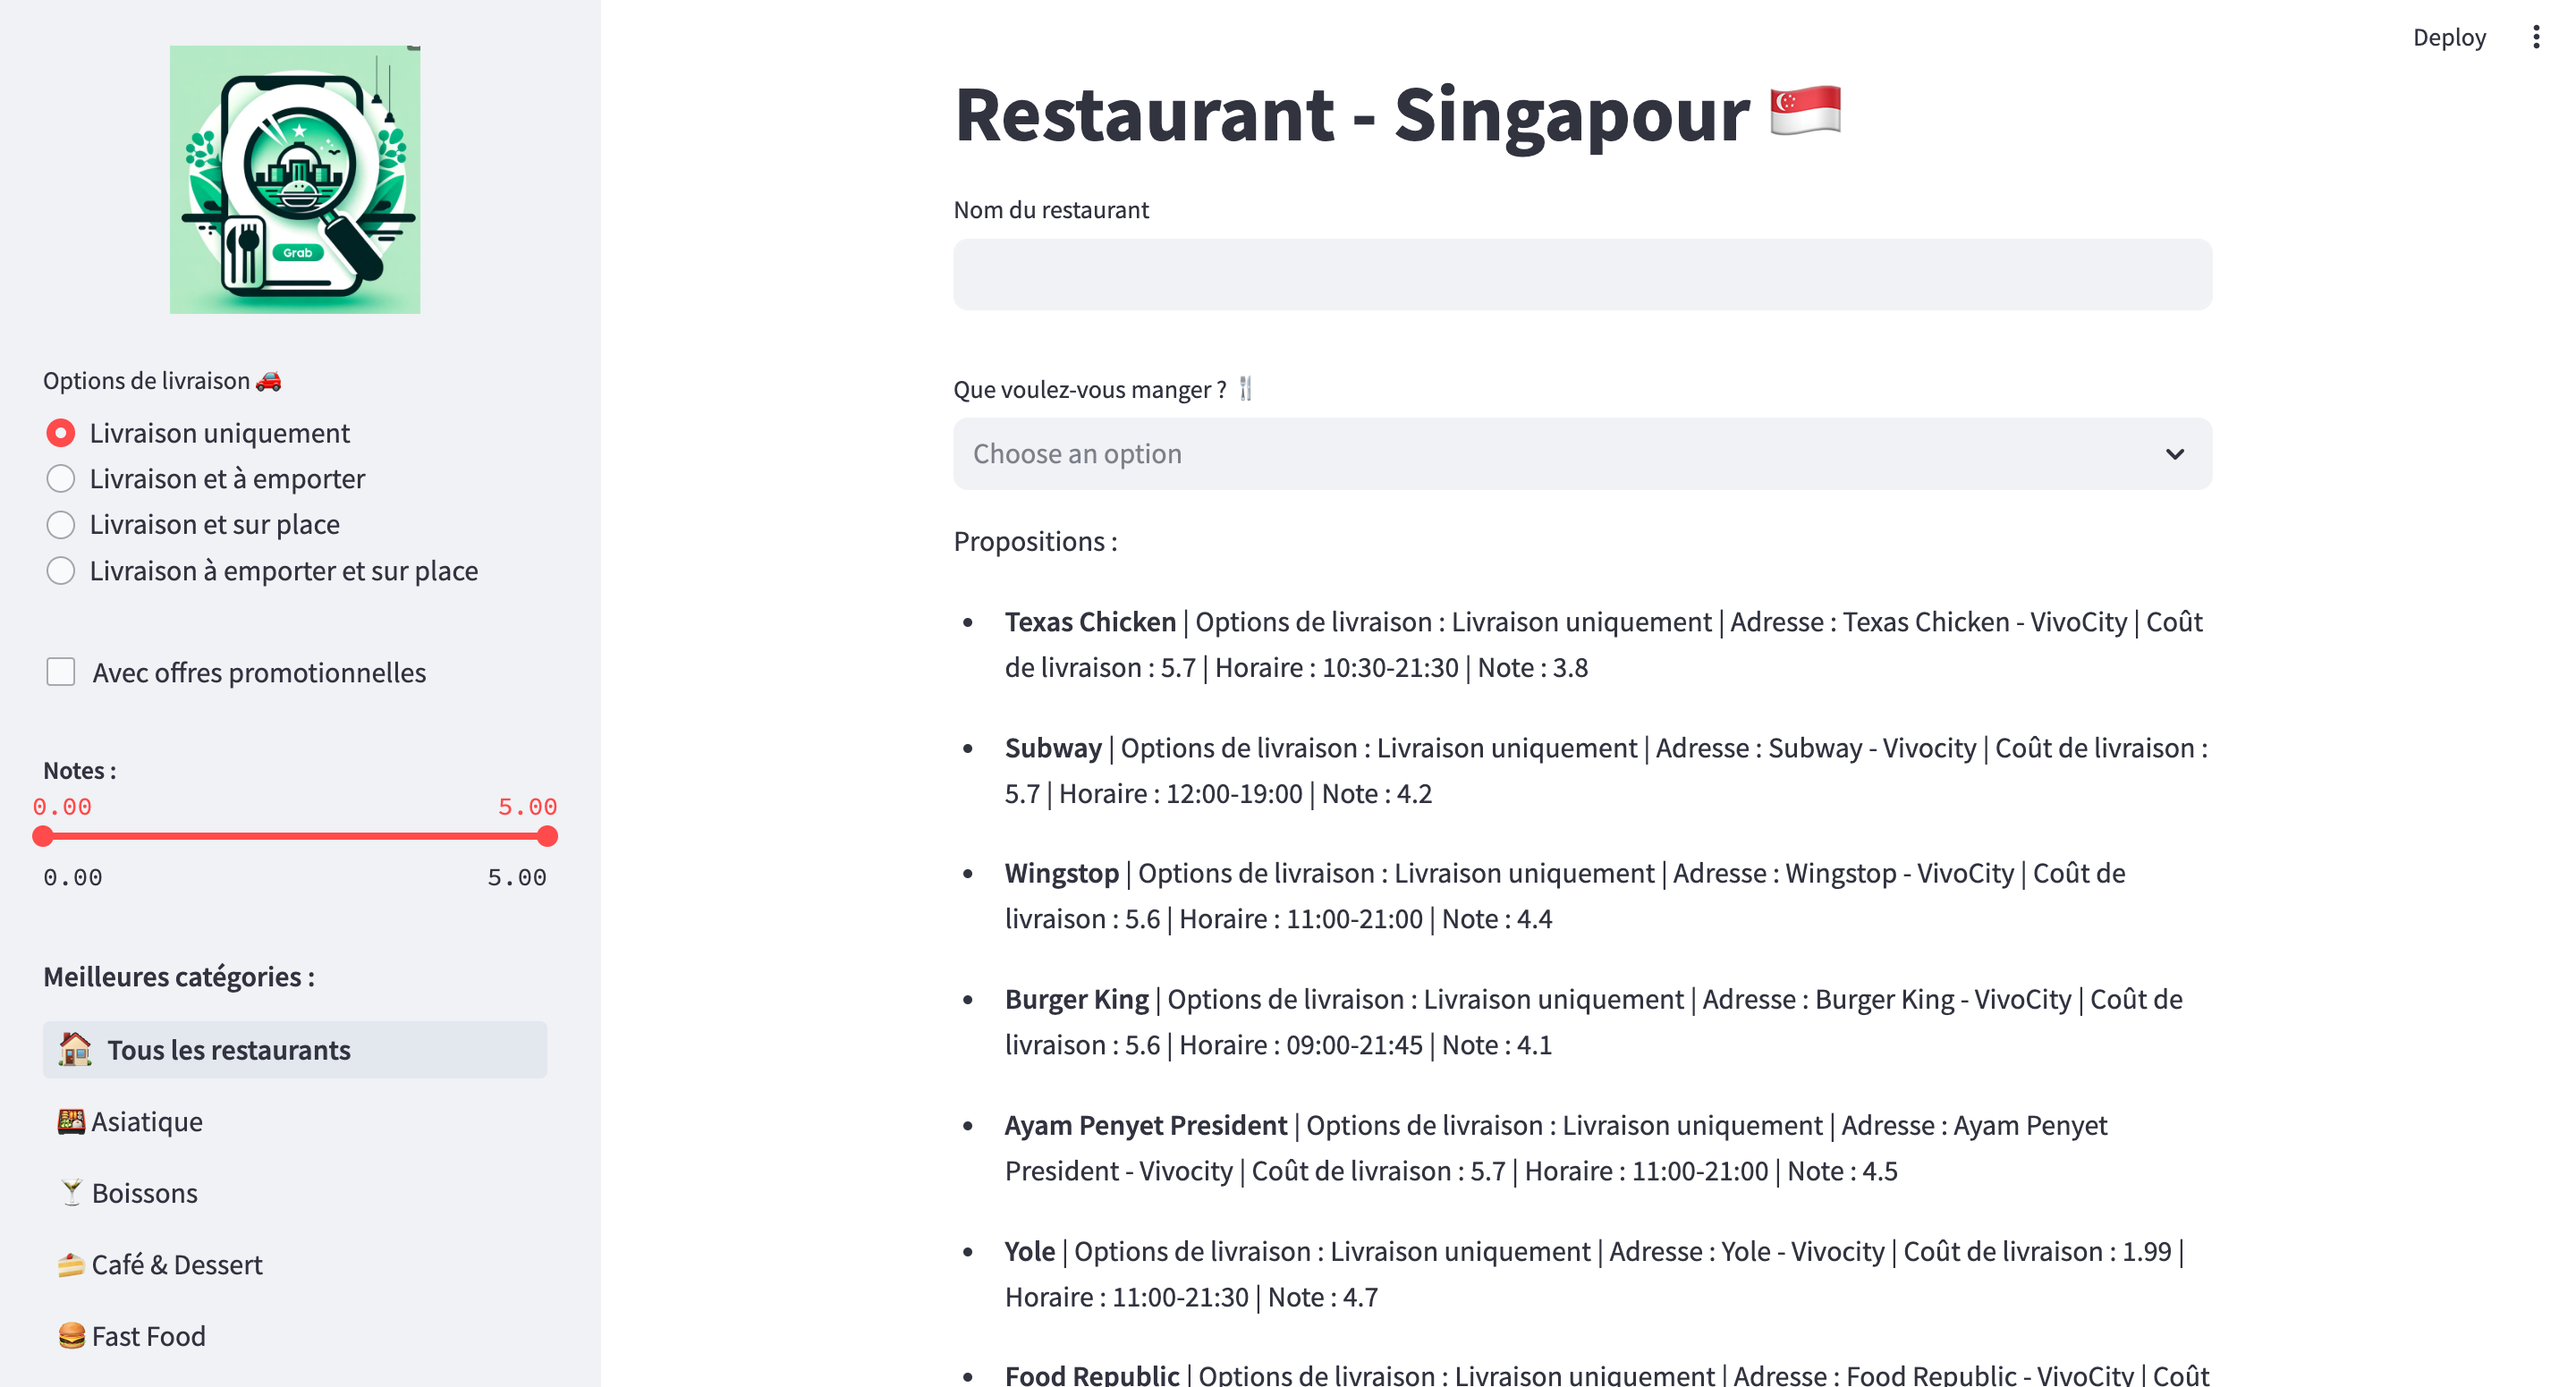
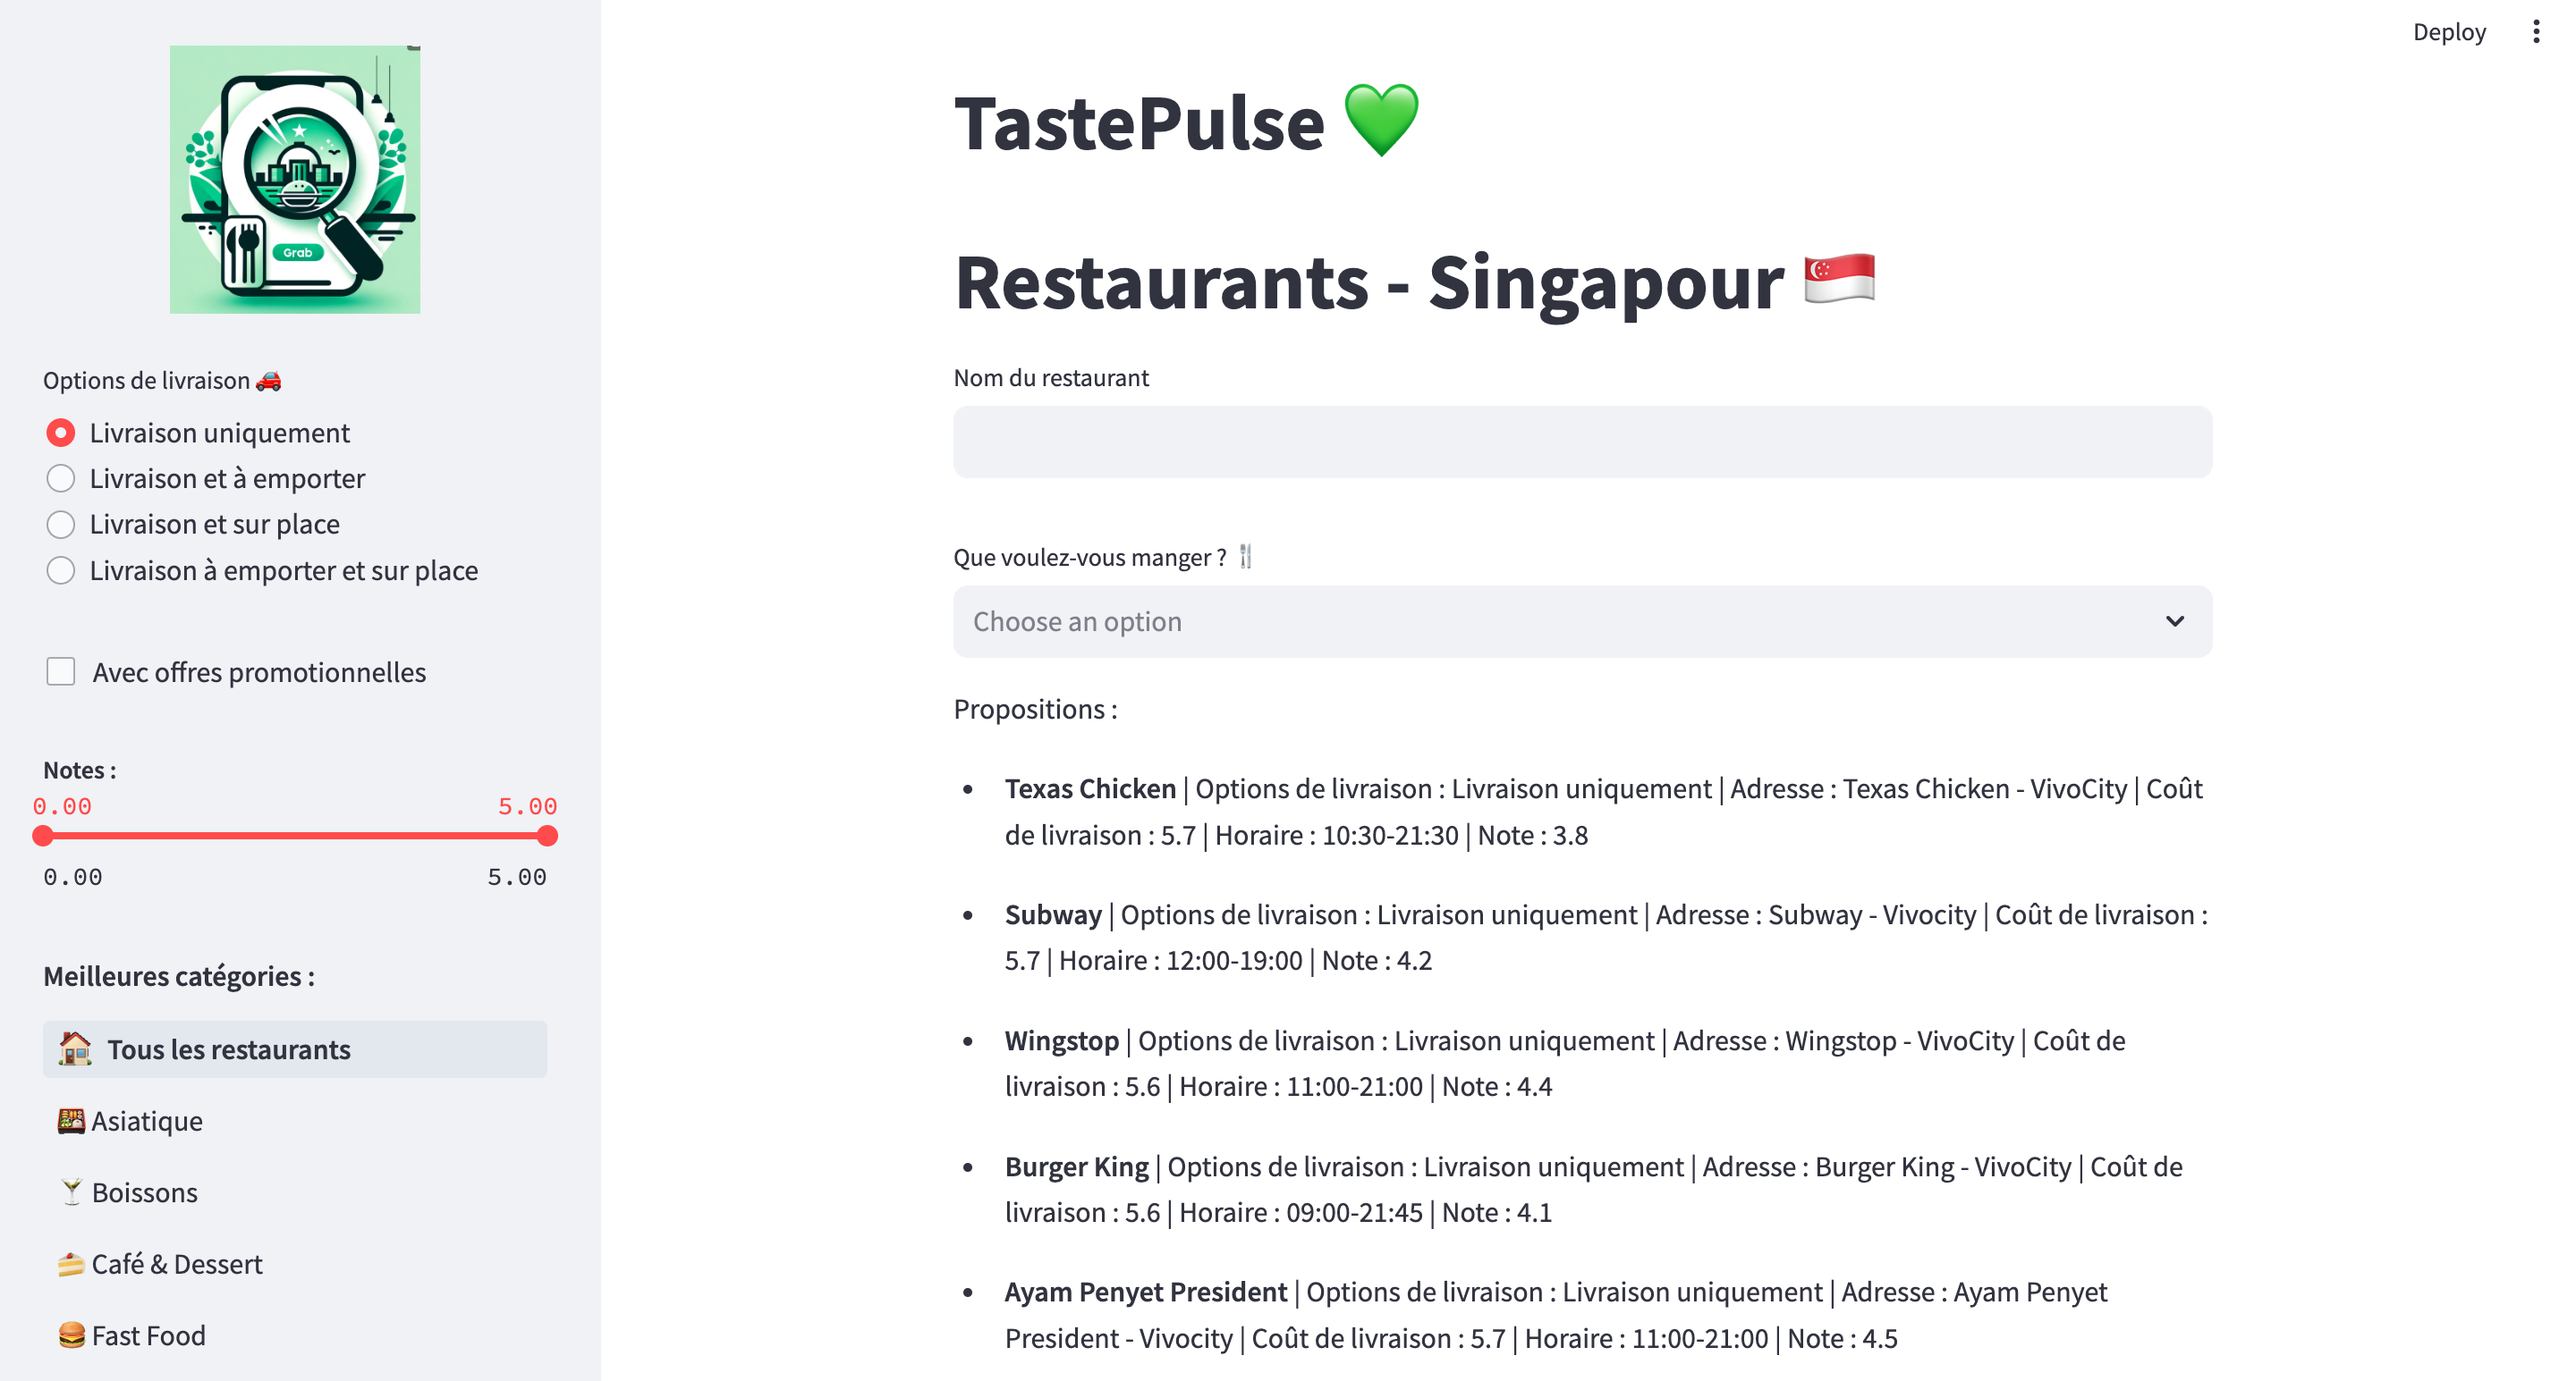
Update

diff --git a/app.py b/app.py
@@ -26,7 +26,7 @@ add_logo()
 df = pd.read_csv('data/new_Grab_SG_Restaurants.csv', sep=',')
 
 st.title("TastePulse :green_heart:")
-st.title("Restaurant - Singapour :flag-sg:")
+st.title("Restaurants - Singapour :flag-sg:")
 
 df.fillna(' ')
 restaurant_title = st.text_input('Nom du restaurant')
